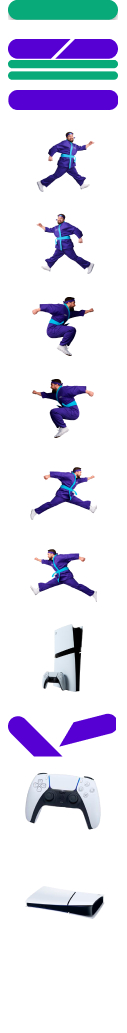
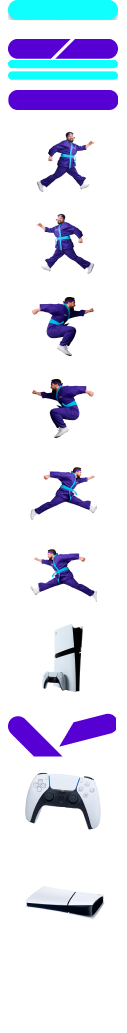
Elesen Doodle images

Changed region(s): [[0.0709, 0.0, 0.9213, 0.0929]]

diff --git a/src/widgets/doodleWidget/doodleWidget.js b/src/widgets/doodleWidget/doodleWidget.js
@@ -85,7 +85,7 @@ const getBrandColor = (customer, language, campaignUrlOrCurrentPage) => {
   if (language === 'LV') return '#F40027';
   if (customer === 'Toni') return '#000F9F';
   if (customer === 'Elesen') {
-    if (!campaignUrlOrCurrentPage || campaignUrlOrCurrentPage?.includes('elesen.lt')) return '#323136';
+    if (!campaignUrlOrCurrentPage || campaignUrlOrCurrentPage?.includes('elesen')) return '#F0A901';
     else return '#FCC802';
   }
 
@@ -149,8 +149,8 @@ const getBackground = (customer, language, campaignUrlOrCurrentPage) => {
     return language === 'LV' ? backgroundRedAkropolisLV : backgroundRedAkropolis;
   }
   if (customer === 'Barbora') return backgroundRed;
-  if (customer === 'Elesen') {    
-    if (!campaignUrlOrCurrentPage || campaignUrlOrCurrentPage?.includes('elesen.lt')) return backgroundElesenLT;
+  if (customer === 'Elesen') {
+    if (!campaignUrlOrCurrentPage || campaignUrlOrCurrentPage?.includes('elesen')) return backgroundElesenLT;
     else return backgroundElesenLV;
   }
 
@@ -211,7 +211,7 @@ const getMainImage = (customer, language, campaignUrlOrCurrentPage) => {
   }
   if (customer === 'Barbora') return mainImage;
   if (customer === 'Elesen') {
-    if (!campaignUrlOrCurrentPage || campaignUrlOrCurrentPage?.includes('elesen.lt')) return mainElesenLT;
+    if (!campaignUrlOrCurrentPage || campaignUrlOrCurrentPage?.includes('elesen')) return mainElesenLT;
     else return mainElesenLV;
   }
 
